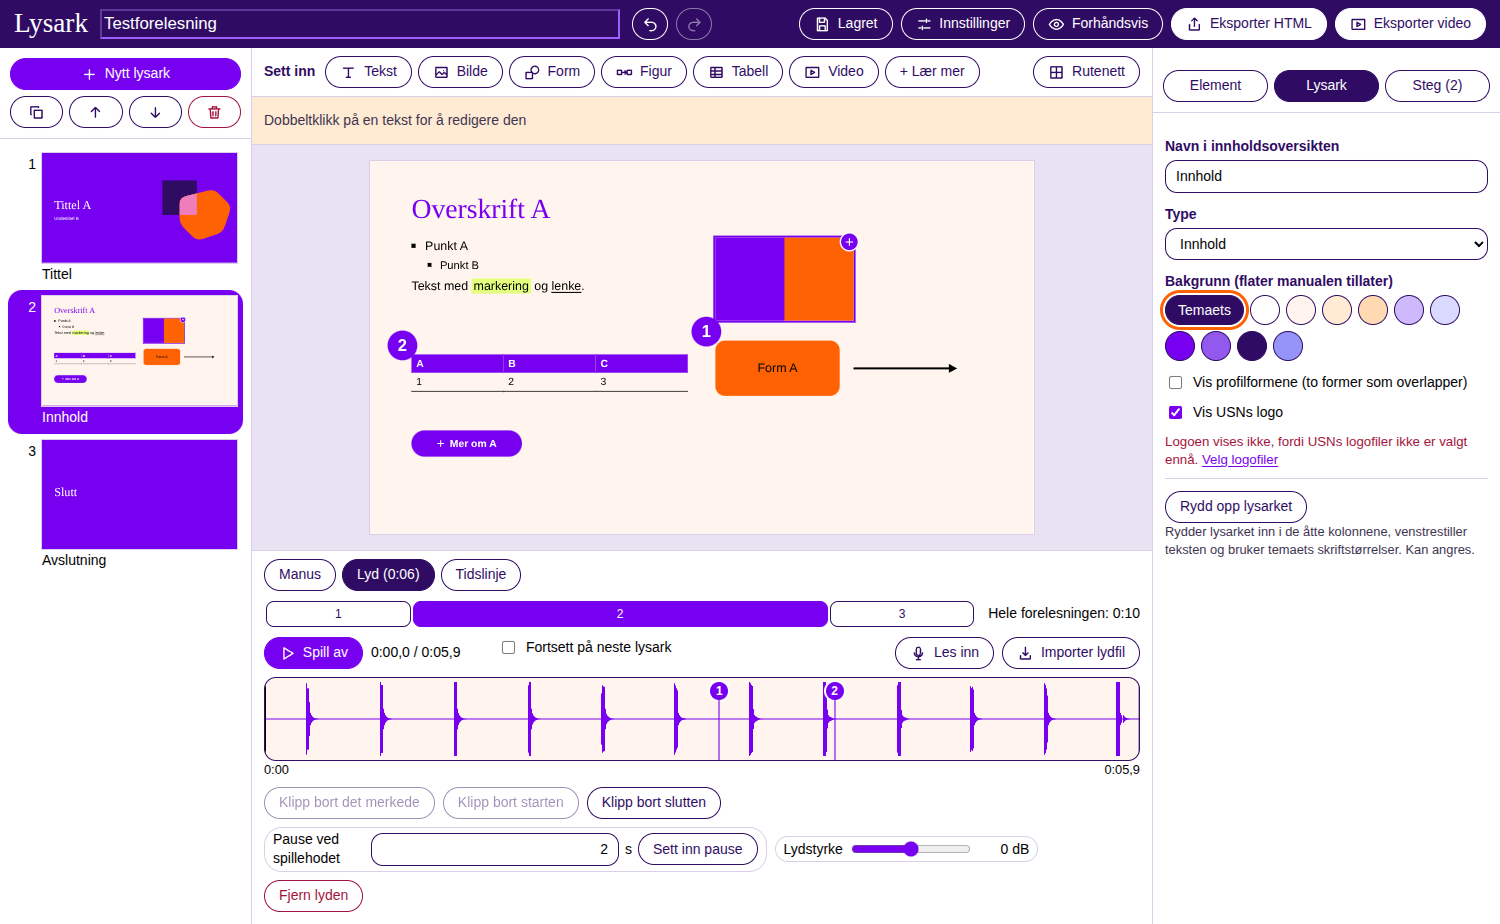
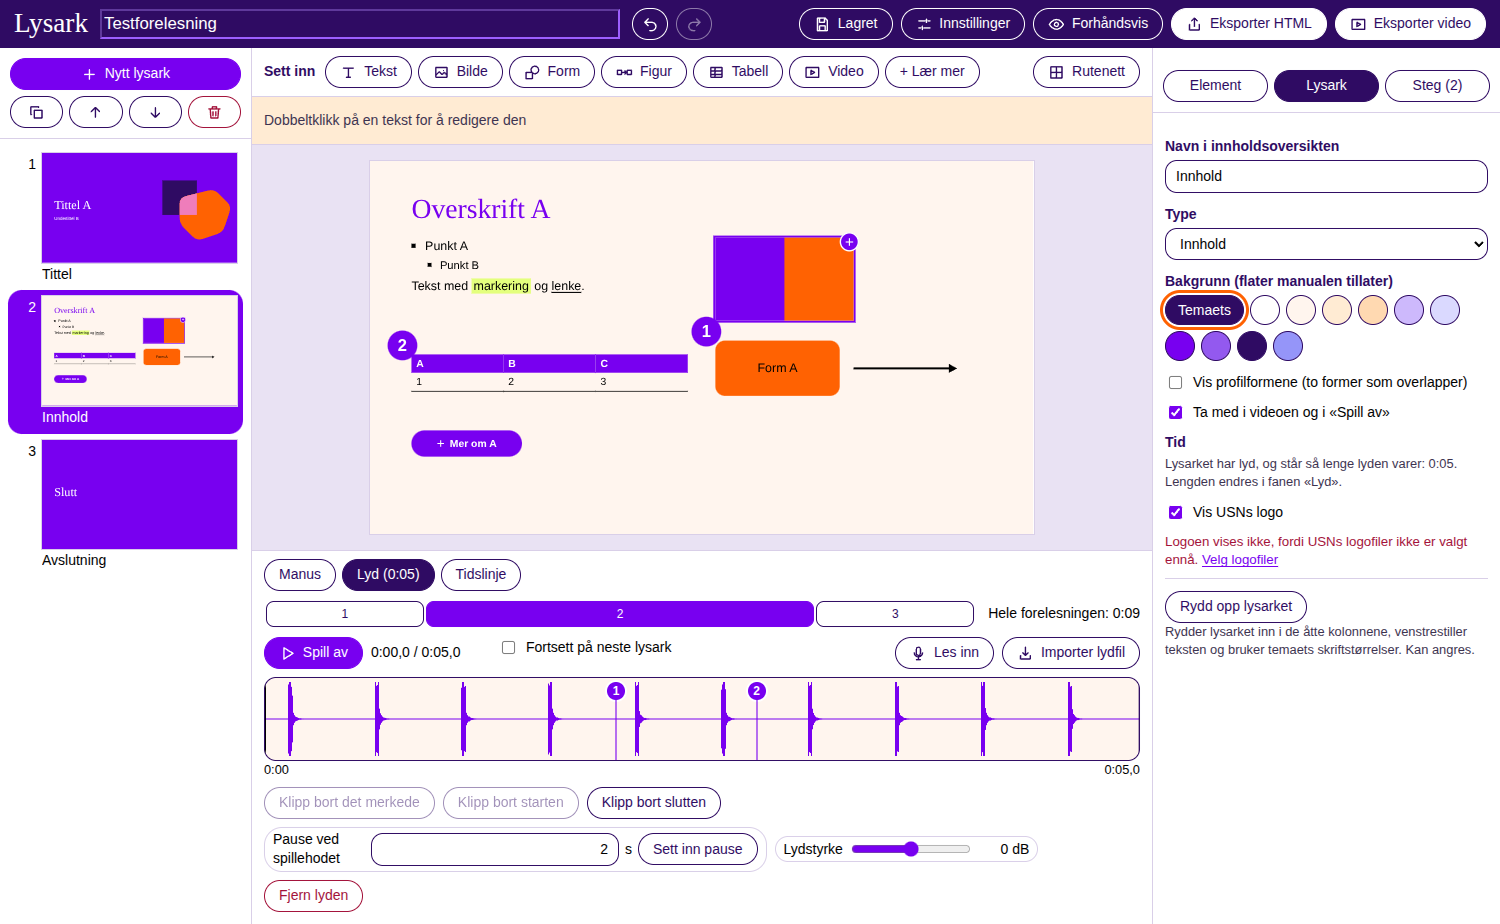
Version 0.6.0: the front page says what the release holds, with new pictures

diff --git a/README.md b/README.md
@@ -51,6 +51,13 @@ spør hvordan lysarkene skal se ut:
   utseende. Stående søylediagram og linjediagram fra PowerPoint tegnes
   da på nytt, med de samme tallene.
 
+Så spør Lysark hvilken form lysarkene skal ha: **«Liggende (16:9)»**
+for skjerm, prosjektor og vanlige videoer, eller **«Stående (9:16)»**
+for mobil og for videoer til TikTok, Reels og Shorts. Lysark ser på
+sidene i fila og merker formen som passer, med «Anbefalt».
+
+![Valget ved import: utseende og form](docs/bilder/import.png)
+
 Uansett hva du velger, kan tekst og bilder flyttes og endres etterpå.
 Seksjonene i PowerPoint og bokmerkene i en PDF blir kapitler. Lysark
 sier fra om det som ikke kom med.
@@ -62,11 +69,18 @@ Klikk for å velge, dra for å flytte, dobbeltklikk for å skrive.
 **Figurer.** «Sett inn» og «Figur» gir deg en prosess, en lagvis
 oppbygging, en sammenligning, en tidsakse, et søylediagram eller et
 linjediagram. Du fyller ut et skjema, og figuren tegner seg selv. Tall
-til et diagram kan du lime rett inn fra et regneark. Du kan også lage
-en figur fritt: piler fester seg til bokser og følger dem når du
-flytter dem.
+til et diagram kan du lime rett inn fra et regneark.
 
 ![Et søylediagram, med tabellen for tallene til høyre](docs/bilder/figur.png)
+
+**Nettverk og streker.** «Nettverk» er en figur med noder og koblinger.
+I skjemaet skriver du hvilke noder og koblinger som finnes, og på
+lysarket drar du nodene dit du vil. Koblingene følger med. Alle streker
+og piler kan formes: dra i midten av en strek for å bøye den. En ende
+fester seg til en boks, eller til en annen strek, og følger med når den
+flyttes.
+
+![Et nettverk med tre noder, og skjemaet til høyre](docs/bilder/nettverk.png)
 
 **Steg.** Under «Steg» bestemmer du hva som skal skje, ett trykk om
 gangen: noe kommer inn, noe markeres, noe tas bort, eller bildet zoomer
@@ -100,8 +114,13 @@ den ikke dekker noe, også mens du leser inn.
 
 ![Innlesing: lysarket til venstre, manuset til høyre](docs/bilder/les-inn.png)
 
+Når du trykker «Ferdig», lagres opptaket i bakgrunnen, og du kan
+arbeide videre med lysarkene imens.
+
 Etterpå kan du klippe bort feil, legge inn pauser og ta om et stykke.
-Opptaket ditt endres aldri, så alt kan angres.
+Opptaket ditt endres aldri, så alt kan angres. Et lysark uten lyd står
+så lenge du sier i feltet «Tid uten lyd», og du kan velge at et lysark
+ikke skal være med i videoen.
 
 ![Lyden til et lysark, med stegene som merker](docs/bilder/lyd.png)
 
@@ -120,7 +139,8 @@ til å bruke.
   lest inn stemmen, kan de trykke «Spill av».
 - **«Eksporter video»** gir en MP4-fil med kapitler og med teksting
   ved siden av, eller en GIF av et kort klipp. Du kan også lage en
-  video av bare noen få lysark.
+  video av bare noen få lysark. Et stående prosjekt gir en stående
+  video.
 
 ### Dette får studentene
 
@@ -147,6 +167,11 @@ har lagt i «Lær mer», og «Innhold» viser kapitlene.
   ikke godkjent eller støttet av Openverse.
 - **YouTube** spiller rett i lysarket hos studentene. I videofila står
   en YouTube-video som stillbilde.
+- **Formen** (liggende eller stående) velger du når prosjektet lages,
+  og den gjelder hele prosjektet.
+- **Plass på disken.** Opptak du har tatt om, blir liggende i
+  prosjektmappa. «Fil» og «Rydd i prosjektmappa» legger det som ikke
+  brukes, i papirkurven.
 
 ## Om prosjektet
 
